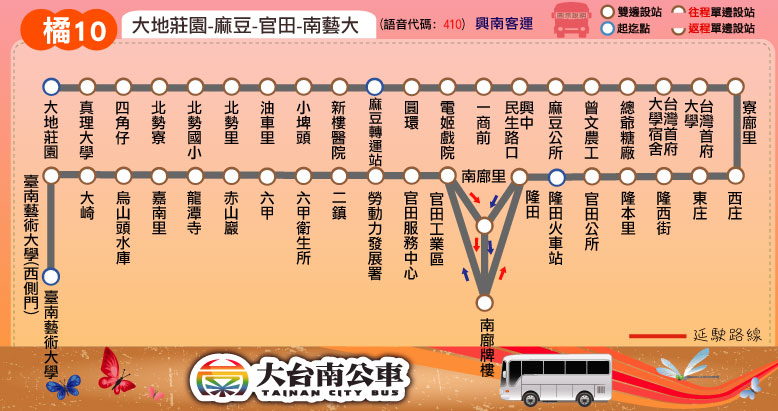
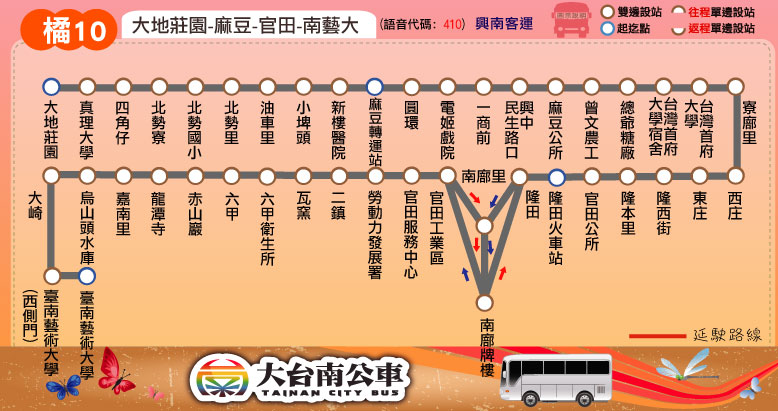
新增站位：橘10 (增「瓦窯」站)

Changed region(s): [[0.0308, 0.4088, 0.5861, 0.9343]]

diff --git a/route/fare_and_time/orange_10.js b/route/fare_and_time/orange_10.js
@@ -6,7 +6,7 @@ orange_10_interval_stop = [
 ["寮廍里"], // 寮廍里
 ["西庄","東庄"], // 西庄
 ["隆西街","隆本里","官田公所","隆田火車站","隆田","南廍里","南廍牌樓"], // 隆田
-["官田工業區","官田服務中心","勞動力發展署","二鎮"], // 二鎮
+["官田工業區","官田服務中心","勞動力發展署","二鎮","瓦窯"], // 二鎮
 ["六甲衛生所","六甲"], // 六甲
 ["赤山巖","龍潭寺","嘉南里"], // 嘉南里
 ["烏山頭水庫"], // 烏山頭水庫
